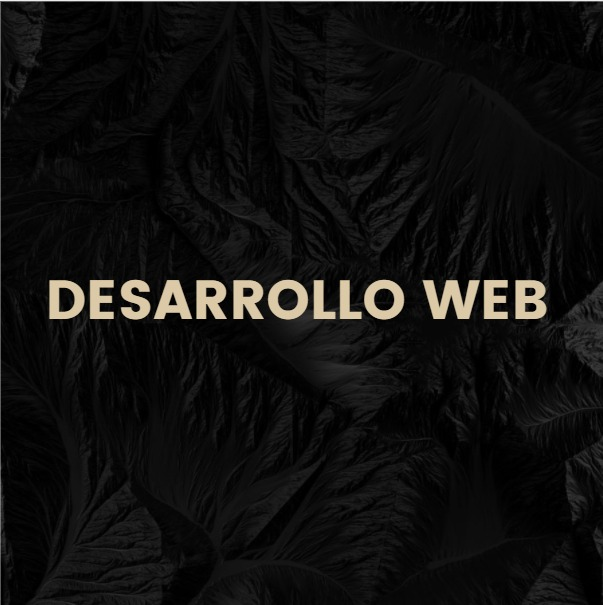
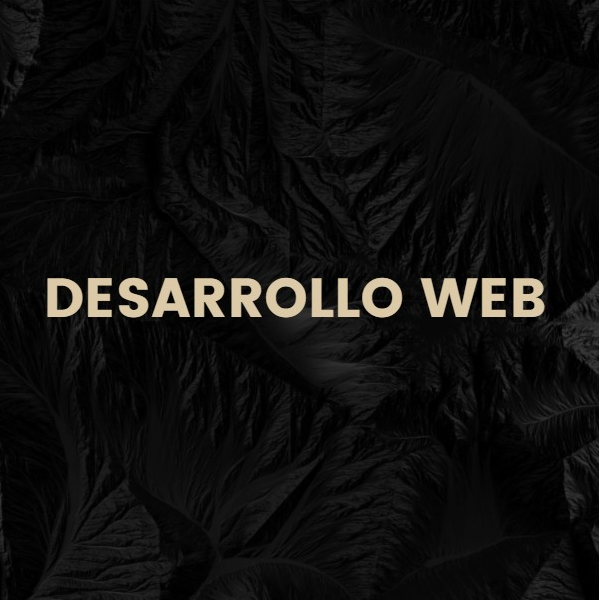
Cambié tamaño de imagenes Resumenes

diff --git a/resumen.css b/resumen.css
@@ -13,7 +13,7 @@ p {
 }
 
 a {
-    color:rgb(247, 235, 195);
+    color:rgb(221, 213, 164);
     text-decoration: none;
 }
 
@@ -34,7 +34,7 @@ span {
 
 h6 {
     font-size: 1.1rem;
-    color:rgb(247, 235, 195);
+    color:black;
     padding-bottom: 10px;
 }
 
@@ -72,7 +72,6 @@ padding: 20px;
 border-radius: 4px;
 }
 
-
 /* Navegación */
 
 nav {
@@ -84,7 +83,7 @@ nav {
     padding: 1vw 8vw;
     grid-area: encabezado;
     background: black;
-    color: hsl(52, 91%, 69%);
+    color: rgb(221, 213, 164);
 }
 
 nav ul {
@@ -103,52 +102,44 @@ nav img {
     font-weight: bold;
 }
 
-/* Contenido */
+/* Resumenes */
 
-.contenedor .contenido {
-    background-color: rgb(221, 213, 164);
-    /* grid-area: contenido; */
-}
-
-/*resumenes*/
-
-.contenedor #course .course-box {
-    grid-area: contenido;
-    
-}
-
-#course{
-    padding:8vw 0 8vw ;
+.contenedor #course {
+    background-color: white;
+    padding: 4vw 0 4vw ;
     text-align: center;
+    border-style: solid;
+    border-color: black;
+    grid-area: contenido;
 }
 
-#course .course-box{
+#course .course-box {
     display: flex;
     flex-direction: row;
-    /* grid-template-columns: repeat(auto-fit, minimax(320px, 1fr)); */
+    justify-content: center;
     grid-gap: 1rem;
-    margin-top: 50px;
-
+    margin-top: 50px;}
 }
-#course.courses{
+
+#course.courses {
     text-align: start;
-    background: #f9f9ff;
+    background: #black;
     height: 100%;
-
 }
-#course .courses img{
-    width: 100%;
+
+#course .courses img {
+    width: 200px;
+    height: 200px;
     background-size: cover;
     background-position: center;
-
 }
-#course .courses .details{
-    padding: 15px 15px 0 15px;
-}
-#course .courses .details i{
-color: #FDC93B;
-font-size: .9rem;
 
+#course .courses .details {
+}
+
+#course .courses .details .star i {
+    color: #FDC93B;
+    font-size: .9rem;
 }
 
 /* Footer */

diff --git a/resumen.html b/resumen.html
@@ -49,7 +49,7 @@
                 </div>
 
                 <div class="courses">
-                    <div class="details>">
+                    <div class="details">
                         <img src="/imgs/matematica.png" alt="">
                         <h6>Matemáticas</h6>
                         <div class="star">

diff --git a/estilos.css b/estilos.css
@@ -13,7 +13,7 @@ p {
 }
 
 a {
-    color:rgb(247, 235, 195);
+    color:rgb(221, 213, 164);
     text-decoration: none;
 }
 
@@ -41,7 +41,7 @@ span {
 
 h6 {
     font-size: 1.5rem;
-    color:rgb(247, 235, 195);
+    color:rgb(221, 213, 164);
     padding: 5px;
 }
 
